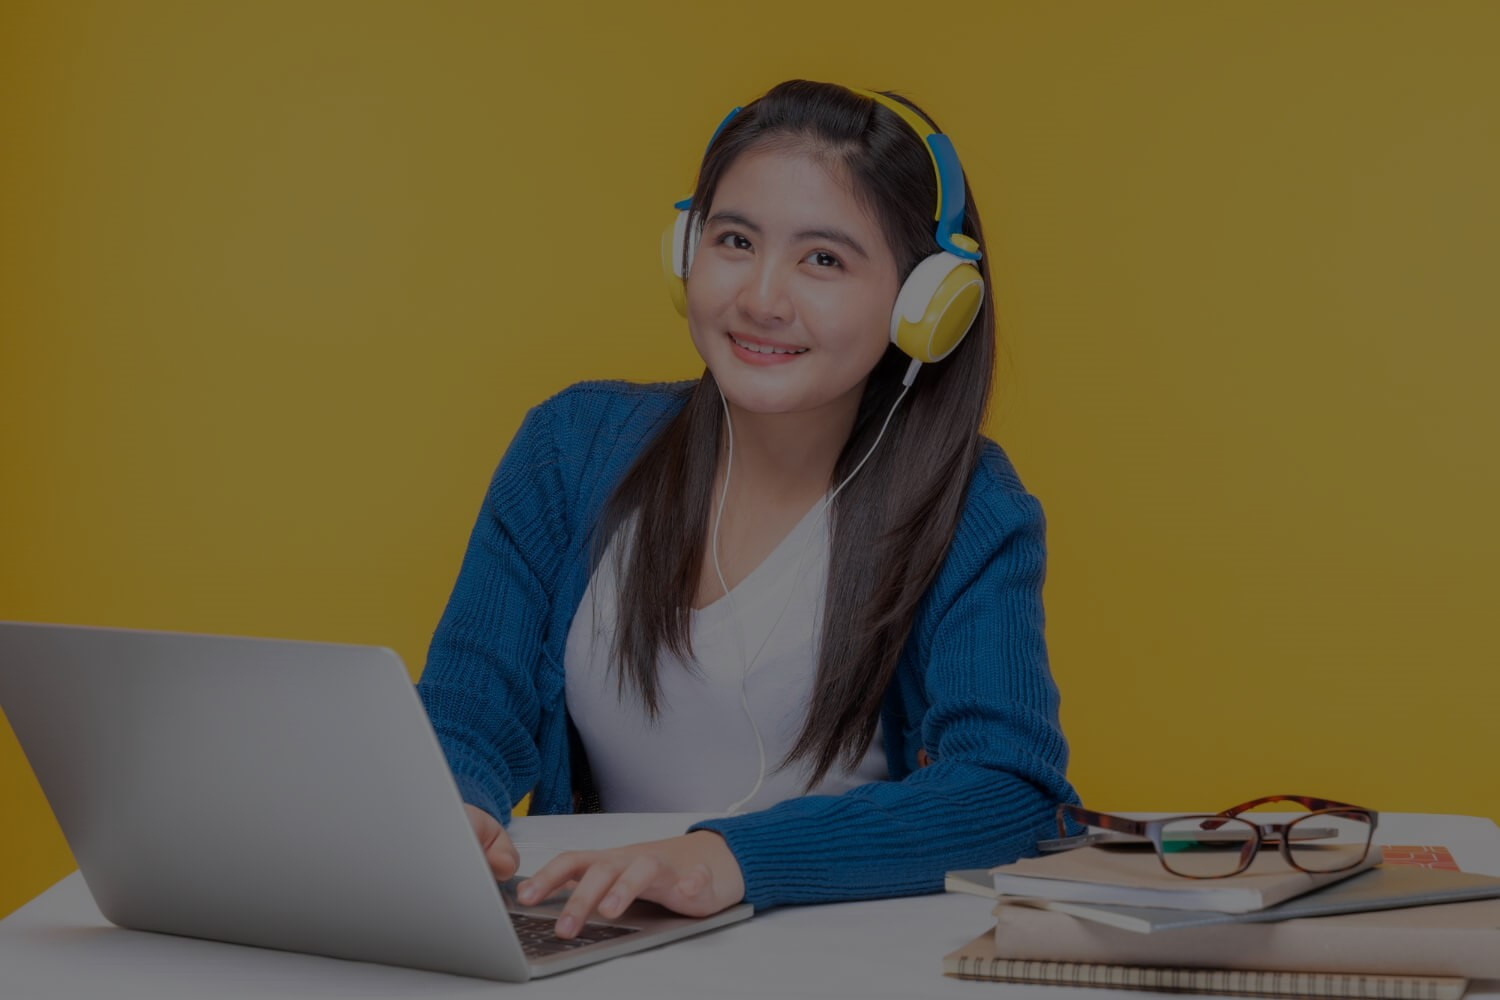
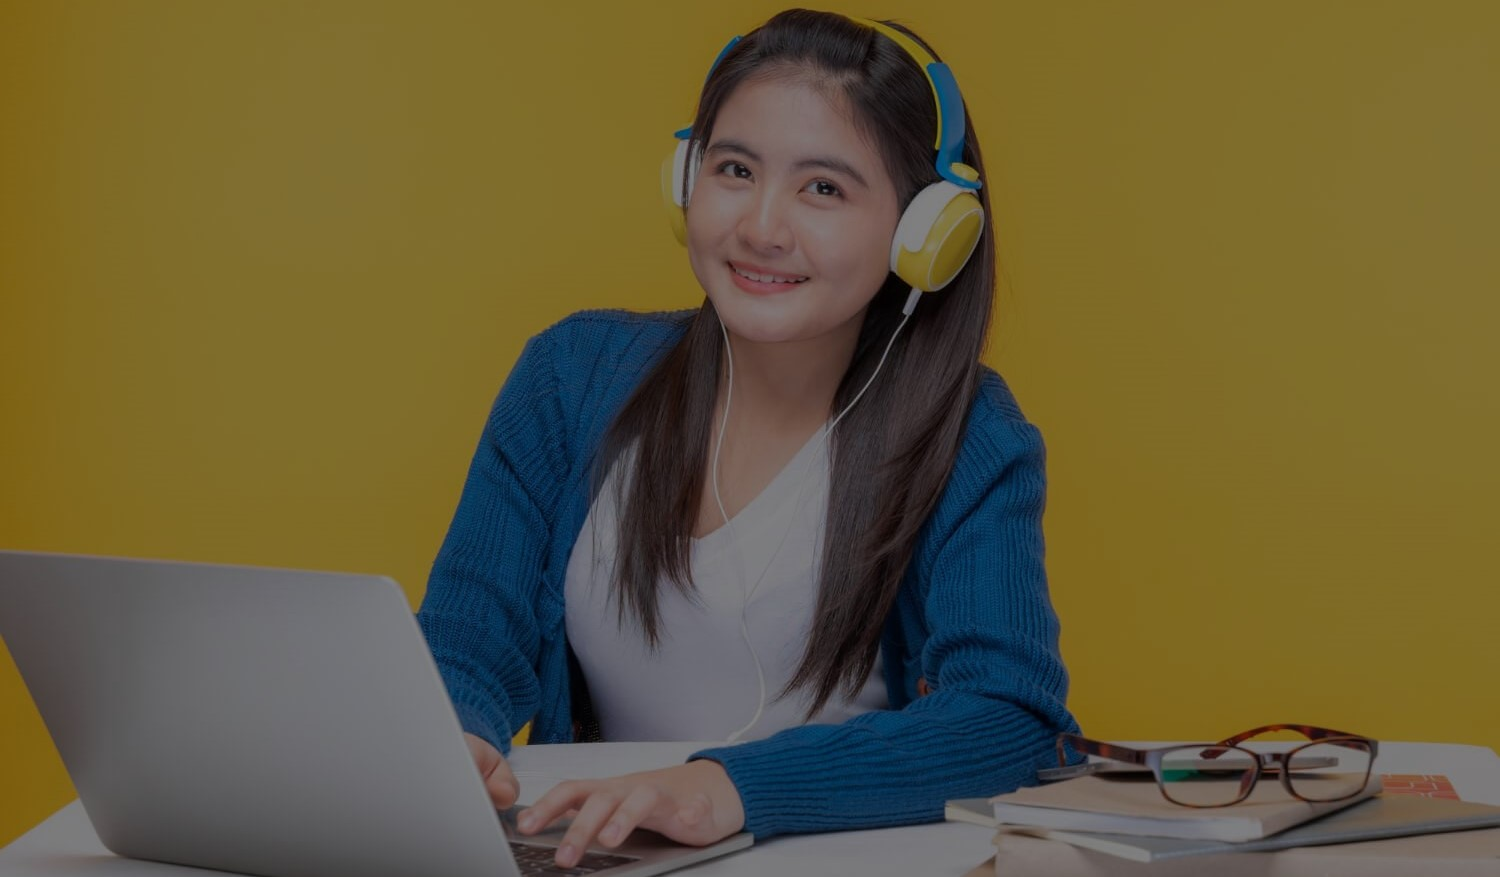
carousel slider

diff --git a/index.html b/index.html
@@ -7,21 +7,22 @@
     <title>edTech Website</title>
     <link href="https://cdn.jsdelivr.net/npm/bootstrap@5.2.0/dist/css/bootstrap.min.css" rel="stylesheet"
         integrity="sha384-gH2yIJqKdNHPEq0n4Mqa/HGKIhSkIHeL5AyhkYV8i59U5AR6csBvApHHNl/vI1Bx" crossorigin="anonymous">
-        <link rel="stylesheet" href="style.css">
+    <link rel="stylesheet" href="style.css">
 </head>
 
 <body>
 
-<!---------------------------------------------------------------------------------------
+    <!---------------------------------------------------------------------------------------
                                                  Header-1 
     --------------------------------------------------------------------------------------->
-    <header>   
+    <header>
 
         <nav class="navbar navbar-expand-lg  mynav fs-3">
             <div class="container-fluid ">
                 <a class="navbar-brand fs-1 fw-bold" href="#">Pro edu</a>
-                <button class="navbar-toggler" type="button" data-bs-toggle="collapse" data-bs-target="#navbarTogglerDemo02"
-                    aria-controls="navbarTogglerDemo02" aria-expanded="false" aria-label="Toggle navigation">
+                <button class="navbar-toggler" type="button" data-bs-toggle="collapse"
+                    data-bs-target="#navbarTogglerDemo02" aria-controls="navbarTogglerDemo02" aria-expanded="false"
+                    aria-label="Toggle navigation">
                     <span class="navbar-toggler-icon"></span>
                 </button>
                 <div class="collapse navbar-collapse " id="navbarTogglerDemo02">
@@ -32,22 +33,22 @@
                         <li class="nav-item">
                             <a class="nav-link" href="#">Link</a>
                         </li>
-                        
+
                         <li class="nav-item">
                             <a class="nav-link" href="#">Courses</a>
                         </li>
-                        
+
                         <li class="nav-item">
                             <a class="nav-link" href="#">Deal</a>
                         </li>
-                        
+
                         <li class="nav-item">
                             <a class="nav-link" href="#">About</a>
                         </li>
-                        
+
                     </ul>
                     <form class="d-flex" role="search">
-                        
+
                         <button class="btn btn-outline-success mysearch fs-3" type="submit">Register</button>
                     </form>
                 </div>
@@ -55,10 +56,68 @@
         </nav>
     </header>
 
-<!---------------------------------------------------------------------------------------------------------- 
+    <!---------------------------------------------------------------------------------------------------------- 
                                                        Header-2
 ----------------------------------------------------------------------------------------------------------------- -->
+    <header class="caromain">
+        <div id="carouselExampleCaptions" class="carousel slide mb-5" data-bs-ride="false">
+            <div class="carousel-indicators">
+                <button type="button" data-bs-target="#carouselExampleCaptions" data-bs-slide-to="0" class="active"
+                    aria-current="true" aria-label="Slide 1"></button>
+                <button type="button" data-bs-target="#carouselExampleCaptions" data-bs-slide-to="1"
+                    aria-label="Slide 2"></button>
+                <button type="button" data-bs-target="#carouselExampleCaptions" data-bs-slide-to="2"
+                    aria-label="Slide 3"></button>
+            </div>
+            <div class="carousel-inner ">
 
+                <div class="carousel-item active ">
+                    <img src="cover/cover-1.png" class="d-block w-100 caroimg" alt="...">
+                    <div class="carousel-caption d-none d-md-block carotext ">
+                        <h5 class=" pb-5 text1 ">Get Started Digital
+                            Learning</h5>
+                        <p class="fs-2 pb-5">It is a long established fact that a reader will be distracted by the
+                            readable
+                            content of a page when looking at its layout.</p>
+                        <button class="btn btn-primary  px-5 py-3 btn-lg " type="submit">Get Started</button>
+                    </div>
+                </div>
+
+                <div class="carousel-item">
+                    <img src="cover/cover-2.jpg" class="d-block w-100" alt="...">
+                    <div class="carousel-caption d-none d-md-block carotext ">
+                        <h5 class=" pb-5 text1">Get Started Digital
+                            Learning</h5>
+                        <p class="fs-2 pb-5">It is a long established fact that a reader will be distracted by the
+                            readable
+                            content of a page when looking at its layout.</p>
+                        <button class="btn btn-primary  px-5 py-3 btn-lg " type="submit">Button</button>
+                    </div>
+                </div>
+                <div class="carousel-item">
+                    <img src="cover/cover-3.jpg" class="d-block w-100" alt="...">
+                    <div class="carousel-caption d-none d-md-block carotext ">
+                        <h5 class=" pb-5 text1">Get Started Digital
+                            Learning</h5>
+                        <p class="fs-2 pb-5">It is a long established fact that a reader will be distracted by the
+                            readable
+                            content of a page when looking at its layout.</p>
+                        <button class="btn btn-primary  px-5 py-3 btn-lg " type="submit">Button</button>
+                    </div>
+                </div>
+            </div>
+            <button class="carousel-control-prev" type="button" data-bs-target="#carouselExampleCaptions"
+                data-bs-slide="prev">
+                <span class="carousel-control-prev-icon" aria-hidden="true"></span>
+                <span class="visually-hidden">Previous</span>
+            </button>
+            <button class="carousel-control-next" type="button" data-bs-target="#carouselExampleCaptions"
+                data-bs-slide="next">
+                <span class="carousel-control-next-icon" aria-hidden="true"></span>
+                <span class="visually-hidden">Next</span>
+            </button>
+        </div>
+    </header>
 
 
     <script src="https://cdn.jsdelivr.net/npm/bootstrap@5.2.0/dist/js/bootstrap.bundle.min.js"

diff --git a/style.css b/style.css
@@ -9,5 +9,17 @@
     margin-left: 400px;
 }
 .carotext{
-   padding-bottom: 500px;
+   position: absolute;
+   top: 200px;
+
+}
+.text1{
+    font-size: 80px;
+}
+.caroimg{
+    position: relative;
+}
+.caromain{
+    margin-left: 60px;
+    margin-right: 60px;
 }
